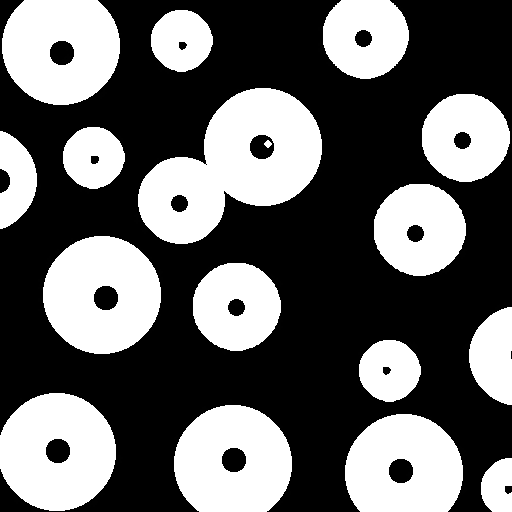
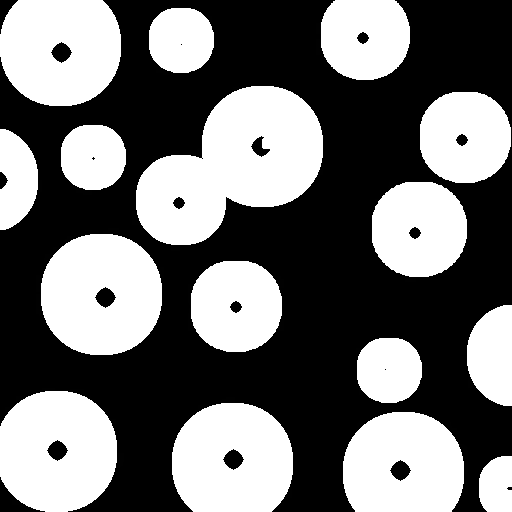
Testing differentstructuring elements for image dilation

diff --git a/Lab 7/exercise7.2.m b/Lab 7/exercise7.2.m
@@ -1,0 +1,16 @@
+%Dilate image with structuring element SE
+
+BW1 = imread('circulos.tif');
+subplot(2,3,1), imshow(BW1), title('Original Image');
+
+BW2 = BW1;
+SE = ones(9,9);
+
+for i= 1:5
+  C = imdilate(BW2, SE);
+  name = ['Dilated image ', int2str(i)];
+  subplot(2,3,i+1), imshow(C), title(name);
+  name = [name, '.png'];
+  imwrite(C, name);
+  BW2 = C;
+  end      
